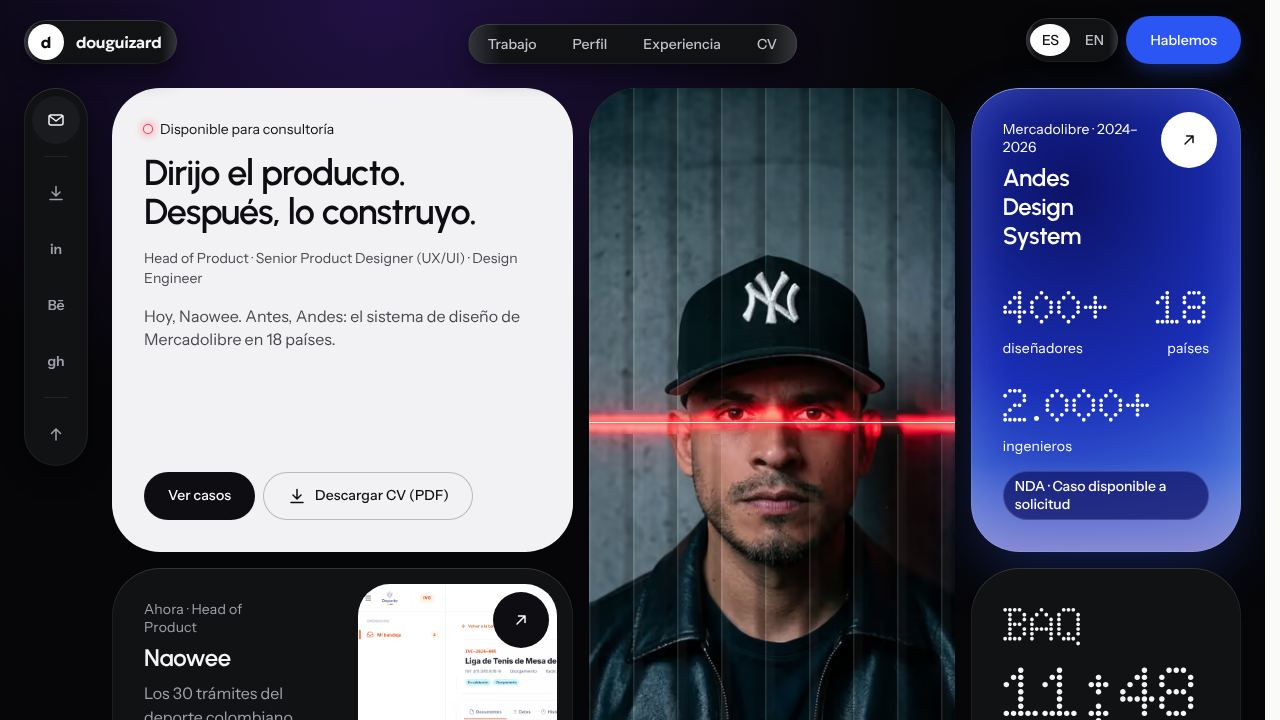
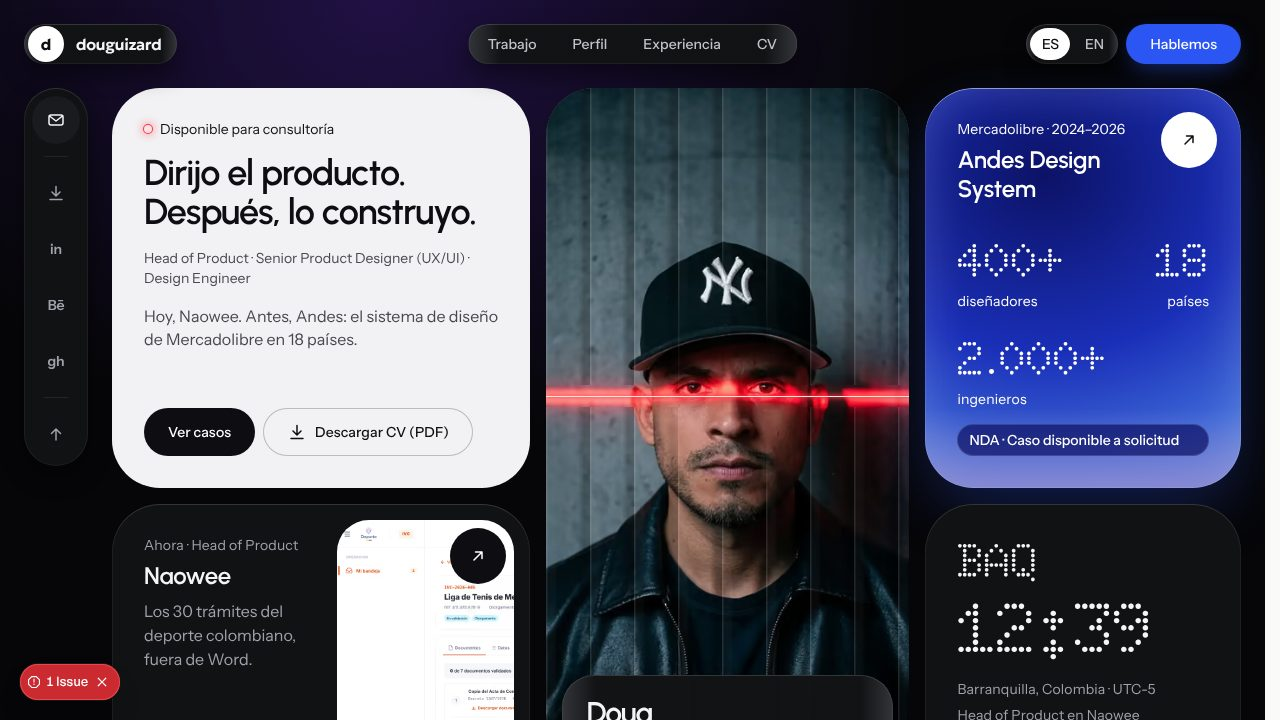
fix(f3): P1-3 rejilla 1280–1439, cejas sin partir, capturas nuevas e informe
Claude-Session: https://claude.ai/code/session_0115FVoAi4xtJtWEh5wY3fxh

diff --git a/tests/e2e/f3-arreglos.spec.ts b/tests/e2e/f3-arreglos.spec.ts
@@ -1,0 +1,56 @@
+import { expect, test } from "@playwright/test";
+
+/** Arreglos tras la crítica de F3 (06-CRITICA-F3 P1-1, P1-2, P1-3). */
+
+// P1-1 · las cuatro piezas de la cabecera comparten `y` y alto (40 px visibles).
+for (const ruta of ["/", "/about", "/cv"]) {
+  test(`P1-1 cabecera alineada en ${ruta} @1440x900`, async ({ page }) => {
+    await page.setViewportSize({ width: 1440, height: 900 });
+    await page.goto(ruta, { waitUntil: "networkidle" });
+    const cajas = await page.evaluate(() =>
+      [".cab-marca .wordmark", ".cab-pills", ".idioma", ".cab-b .hablemos"].map((s) => {
+        const r = document.querySelector(s)!.getBoundingClientRect();
+        return { s, y: Math.round(r.y * 10) / 10, h: Math.round(r.height * 10) / 10 };
+      }),
+    );
+    for (const c of cajas) {
+      expect(c.h, `${c.s} alto`).toBe(40);
+      expect(c.y, `${c.s} y`).toBe(cajas[0].y);
+    }
+  });
+}
+
+// P1-2 · sin preferencia de sistema, las rutas B pintan en oscuro; /cv conserva su tema.
+for (const ruta of ["/", "/work", "/about", "/experience", "/en"]) {
+  test(`P1-2 color-scheme dark en ${ruta}`, async ({ page }) => {
+    await page.goto(ruta, { waitUntil: "networkidle" });
+    expect(await page.evaluate(() => getComputedStyle(document.documentElement).colorScheme)).toBe("dark");
+    await expect(page.locator('meta[name="color-scheme"]')).toHaveAttribute("content", "dark");
+  });
+}
+test("P1-2 /cv conserva su tema (claro sin preferencia)", async ({ page }) => {
+  await page.goto("/cv", { waitUntil: "networkidle" });
+  const r = await page.evaluate(() => ({
+    cs: getComputedStyle(document.documentElement).colorScheme,
+    t: document.documentElement.dataset.theme,
+  }));
+  expect(r.cs).toBe(r.t);
+});
+
+// P1-3 · rejilla 1280–1439: la columna de Andes ≥ 300 px y nada se parte.
+for (const [w, h] of [[1280, 720], [1366, 768]] as const) {
+  test(`P1-3 K4 ≥ 300 px y textos sin partir @${w}x${h}`, async ({ page }) => {
+    await page.emulateMedia({ reducedMotion: "reduce" });
+    await page.setViewportSize({ width: w, height: h });
+    await page.goto("/", { waitUntil: "networkidle" });
+    const r = await page.evaluate(() => {
+      const ancho = document.querySelector<HTMLElement>(".os .k4")!.getBoundingClientRect().width;
+      const partidos = Array.from(document.querySelectorAll<HTMLElement>(".os .losa-caso .ceja"))
+        .filter((e) => e.getClientRects().length && e.getBoundingClientRect().height > 1.6 * parseFloat(getComputedStyle(e).lineHeight))
+        .map((e) => e.textContent);
+      return { ancho, partidos };
+    });
+    expect(r.ancho).toBeGreaterThanOrEqual(300);
+    expect(r.partidos, "ceja/eyebrow en una sola línea").toEqual([]);
+  });
+}

diff --git a/src/components/tablero/tablero.css b/src/components/tablero/tablero.css
@@ -706,6 +706,17 @@
     }
   }
 
+  /* ═══ 1280–1439 (P1-3): la columna de Andes (K4/K5) gana ancho a costa de K2 ═══ */
+  @media (min-width: 1280px) and (max-width: 1439px) {
+    .os-top {
+      grid-template-columns:
+        repeat(5, minmax(0, 0.9fr)) repeat(4, minmax(0, 1fr)) repeat(3, minmax(0, 1.2fr));
+    }
+    .os .losa-caso .ceja {
+      white-space: nowrap;
+    }
+  }
+
   /* ═══ 1024–1279 (P0-1): K2 a 7 columnas, K3+K4 debajo, K1 a la derecha ═══ */
   @media (min-width: 1024px) and (max-width: 1279px) {
     .os-top {

diff --git a/docs/rediseno-2026/F3-INFORME.md b/docs/rediseno-2026/F3-INFORME.md
@@ -138,3 +138,11 @@ es 4.797 px (maqueta 5.062).
 - Las viñetas `olbo`, `naowee`, `banco`, `dc`, `makeapet` quedan sin uso (solo vive la de Andes en `CaseNda`) → F8.
   `lib/spring.ts` (`stepSpring`) también queda huérfano → F8. `HeroField`/`Velaris` → F4.
 - Doug: título de K13 (desvío 8) y si el chip NDA del home puede ser el corto (desvío 3, cambiaría `10.5`).
+
+## Arreglos tras la crítica
+
+| Punto | Cambio | Prueba |
+|---|---|---|
+| **P1-1** cabecera | `.cab-b` con `align-items: center`; wordmark, pills, idioma y «Hablemos» a 40 px visibles (`--pill-alto`), `y 24` común; destino táctil de 44 px por `::before { inset: -2px 0 }` (`chrome.css`). | `f3-arreglos.spec.ts` · «P1-1 cabecera alineada» mide cajas (mismo `y`, alto 40) en `/`, `/about`, `/cv`. |
+| **P1-2** `color-scheme` | `:root:not(:has([data-ruta-cv])) { color-scheme: dark }` (`globals.css`), el script de tema ya no fija `color-scheme` inline, `viewport.colorScheme: "dark"` y `themeColor: #060608` en ambos layouts; `/cv` (es/en) lo sobrescribe con `"dark light"` y sus dos `themeColor`. | «P1-2» en `/`, `/work`, `/about`, `/experience`, `/en`: `colorScheme === "dark"` y `<meta name="color-scheme">` sin preferencia; en `/cv` sigue su tema. |
+| **P1-3** rejilla 1280–1439 | `.os-top` con columnas `5×0.9fr · 4×1fr · 3×1.2fr` y `white-space: nowrap` en `.ceja` (años y eyebrow). K4 (Andes): 270 → 316 px a 1280 y 341 px a 1366; el título ya no choca con la flecha. | «P1-3» K4 ≥ 300 px y cejas en una línea a 1280×720 y 1366×768; `layout 5.4` en verde; capturas nuevas `F3-capturas/home-1280x720-pliegue.jpg` y `home-1366x768-pliegue.jpg`. |
